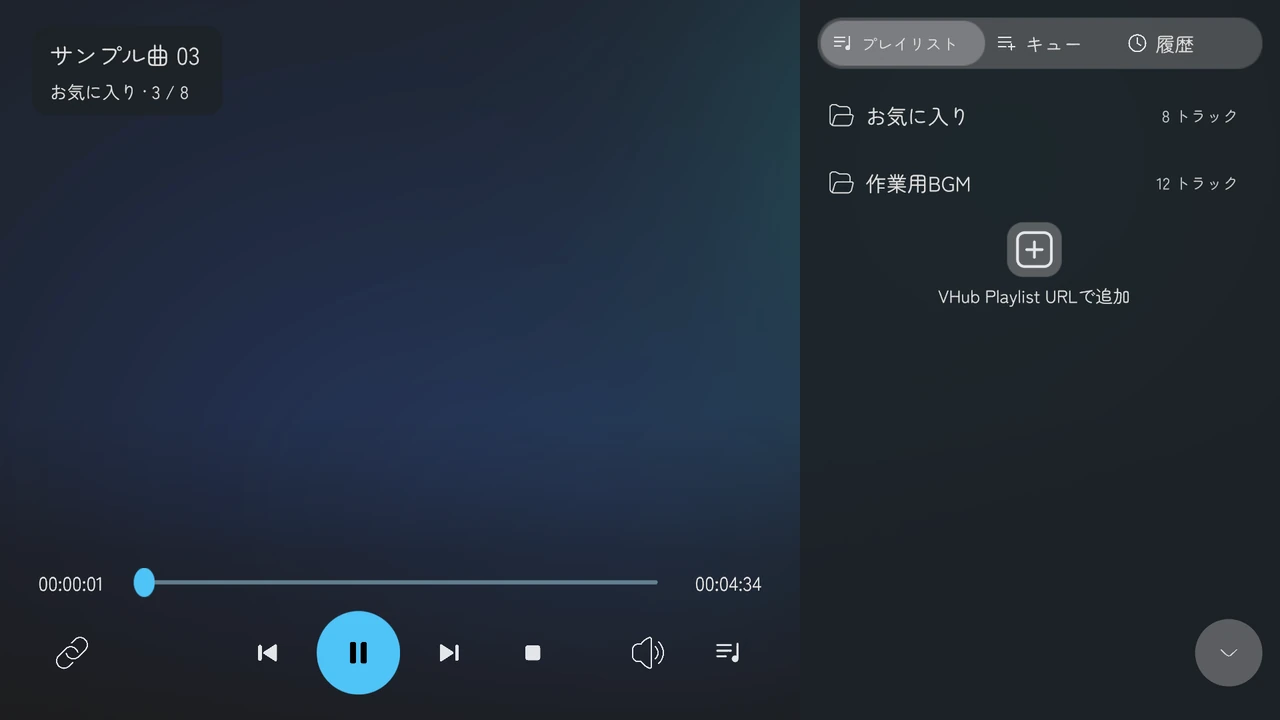
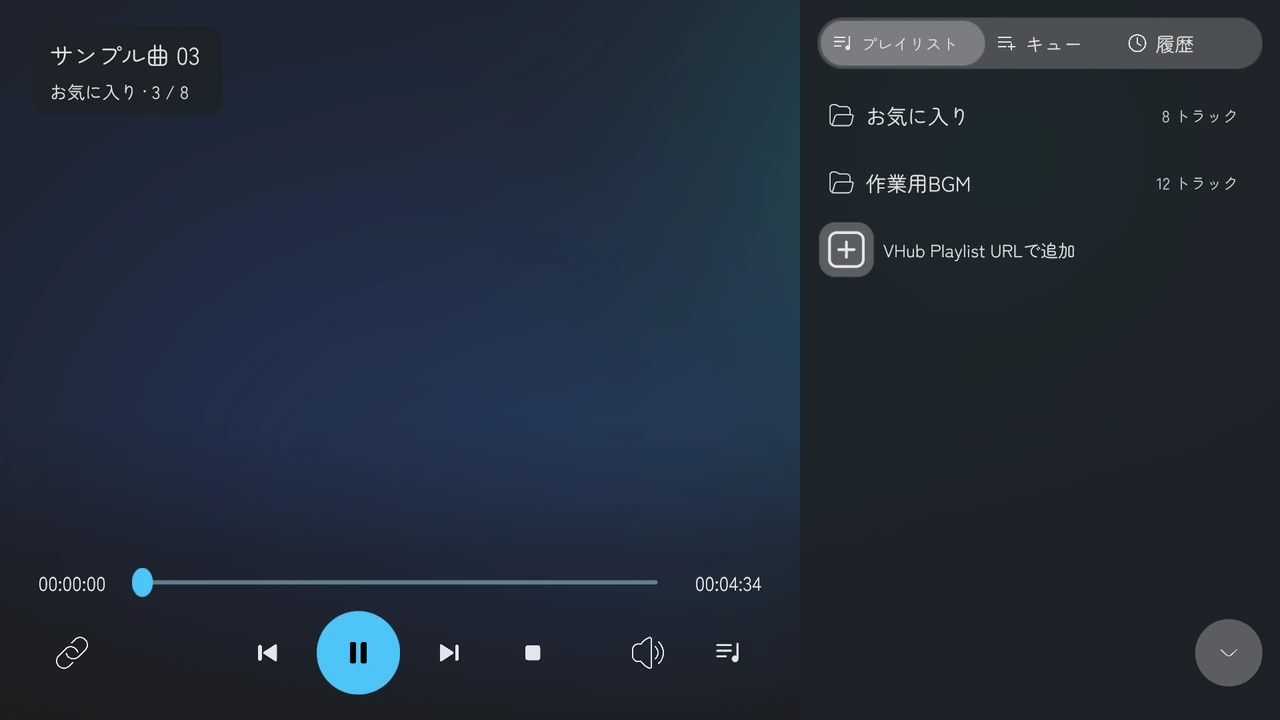
docs(guide): the "+" slides left with its name beside it (#335)
Claude-Session: https://claude.ai/code/session_014UgSPcxLDoFJhLM3Stmszr

Changed region(s): [[0.625, 0.3056, 0.875, 0.4278], [0.0625, 0.7944, 0.125, 0.825]]

diff --git a/docs/guide/images/annotate.py b/docs/guide/images/annotate.py
@@ -288,7 +288,7 @@ MARKS = {
         dict(box=(968, 21, 1111, 67), n=2),
         dict(box=(1115, 21, 1259, 67), n=3),
         dict(box=(817, 84, 1260, 148), n=4, cap="押すと曲の一覧へ", at=(600, 116)),
-        dict(box=(930, 218, 1137, 312), n=5, cap="VHub のプレイリストを足す", at=(640, 265)),
+        dict(box=(817, 219, 1260, 283), n=5, cap="VHub のプレイリストを足す", at=(600, 251)),
         dict(box=(1196, 620, 1262, 686), n=6, cap="閉じる", at=(1080, 560)),
     ]),
     "screen/playlist-tracks": dict(scale=0.667, marks=[

diff --git a/docs/guide/playing.md b/docs/guide/playing.md
@@ -89,7 +89,7 @@ KawaPlayer が置かれたワールドで、スクリーンを操作する方法
 
 スクリーンを押して操作を出すと、スクリーンの右に一覧が出ています。上のタブ（①〜③）で、出すものを切り替えます。最初は **プレイリスト** のタブです。
 
-![一覧を開いたスクリーン。① プレイリスト、② キュー、③ 履歴 のタブ、④ プレイリスト「お気に入り」、⑤ 指すと「VHub Playlist URLで追加」と出る ＋、⑥ 右下の ∨ に印がある](images/screen/playlist-list.webp)
+![一覧を開いたスクリーン。① プレイリスト、② キュー、③ 履歴 のタブ、④ プレイリスト「お気に入り」、⑤ 指すと左に寄って「VHub Playlist URLで追加」と出る ＋ の行、⑥ 右下の ∨ に印がある](images/screen/playlist-list.webp)
 
 | | タブ | 出るもの |
 | --- | --- | --- |
@@ -97,7 +97,7 @@ KawaPlayer が置かれたワールドで、スクリーンを操作する方法
 | ② | **キュー** | 次に流す曲の列。URL を入れたときの **再生キューに追加する** や、曲の **キューに追加** で足した曲が並ぶ。次の曲に進むときは、プレイリストより先に、キューの曲を上から流す |
 | ③ | **履歴** | これまでに流した曲 |
 
-- **＋（⑤）:** VHub のプレイリストを、一覧に足します。指すと **VHub Playlist URLで追加** と出ます。押して VHub の VRChat用URL を貼り、確定すると、プレイリストの一覧の最後に 1 つ足されます。止まっていても再生は始まらず、足せたことも表示しません（読み込めなかったときだけ、理由が出ます）。動画の URL は入れられないので、下の帯の **URL を入力** から入れてください。Playlist Panel には出ません（[VHub のプレイリストを読み込む](#vhub-のプレイリストを読み込む)）。
+- **＋（⑤）:** VHub のプレイリストを、一覧に足します。＋ の行を指すと、＋ が左に寄り、その右に **VHub Playlist URLで追加** と出ます。行のどこを押しても、VHub の VRChat用URL を入れる欄が開きます。貼って確定すると、プレイリストの一覧の最後に 1 つ足されます。止まっていても再生は始まらず、足せたことも表示しません（読み込めなかったときだけ、理由が出ます）。動画の URL は入れられないので、下の帯の **URL を入力** から入れてください。Playlist Panel には出ません（[VHub のプレイリストを読み込む](#vhub-のプレイリストを読み込む)）。
 - **閉じる:** もう一度 **一覧** を押すか、右下の **∨**（⑥）を押すか、一覧の外を押します。次に操作を出すと、また開いています。
 - **下の帯:** 一覧が出ているあいだ、帯は一覧の左に縮みます。左のボタンは **URL を入力** だけが残り、**ループ再生**・**シャッフル再生**・**ReSync** と、**設定**・**その他** は隠れます。
 
